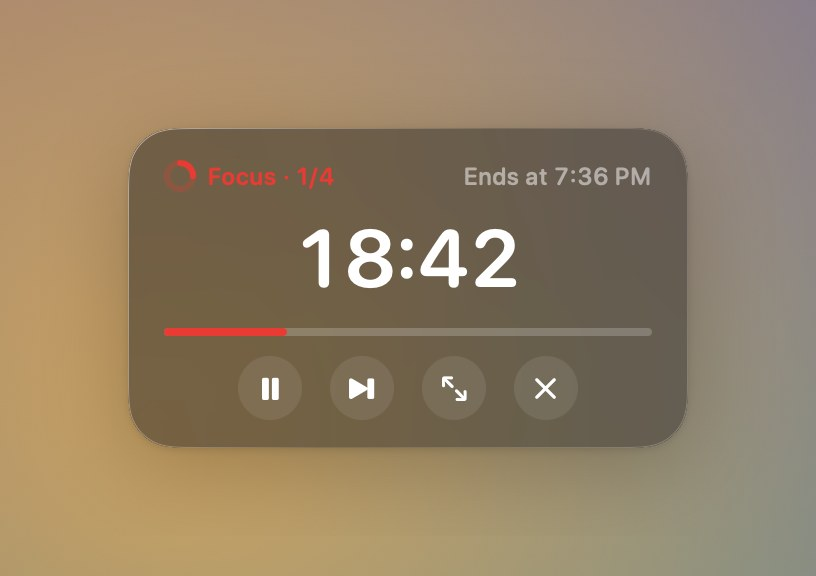
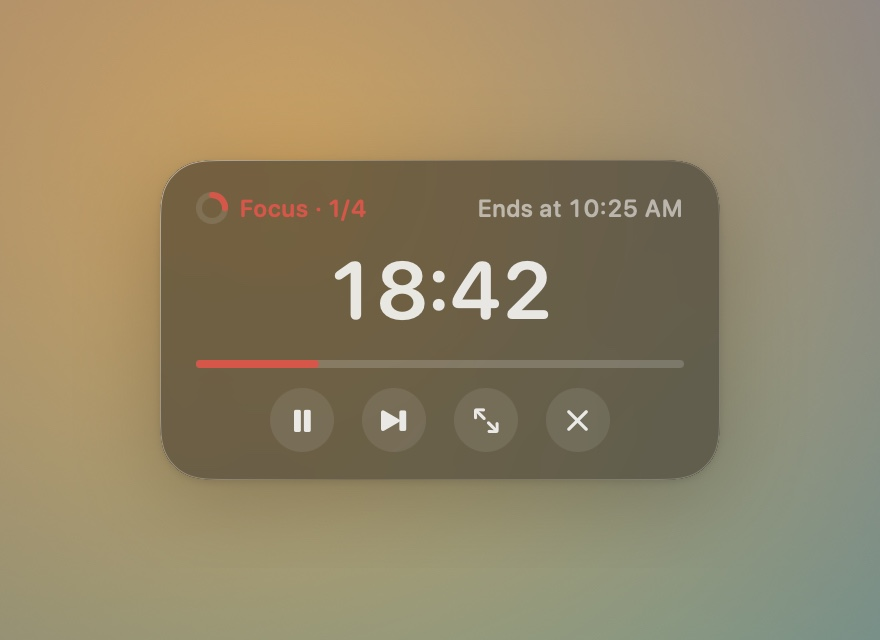
docs: refresh bilingual product screenshots and website imagery

diff --git a/website/styles.css b/website/styles.css
@@ -1,13 +1,13 @@
 :root{--paper:#f7f8f2;--ink:#253d33;--muted:#607068;--coral:#da443b;--coral-hover:#ba342d;--line:#dce1d5;--green:#e8eddf;--mint:#bbd9ca;--radius:28px;font-family:-apple-system,BlinkMacSystemFont,"PingFang TC","Microsoft JhengHei",sans-serif;color:var(--ink);background:var(--paper);font-synthesis:none;scroll-behavior:smooth;scroll-padding-top:32px}
 *{box-sizing:border-box}body{margin:0}a{color:inherit;text-decoration:none}button{font:inherit}img{display:block;max-width:100%;height:auto}svg{width:22px;height:22px;fill:none;stroke:currentColor;stroke-width:1.6;stroke-linecap:round;stroke-linejoin:round;flex:none}button,a,summary{-webkit-tap-highlight-color:transparent}a:focus-visible,button:focus-visible,summary:focus-visible,[tabindex="0"]:focus-visible{outline:3px solid var(--coral);outline-offset:5px}h1,h2,h3,p{margin:0}p{line-height:1.9}h1,h2,h3{text-wrap:balance}h2{font-size:clamp(30px,3.6vw,45px);line-height:1.45;letter-spacing:-1.3px;font-weight:600}.wrap{width:min(1120px,calc(100% - 96px));margin-inline:auto}.section-space{padding-block:112px}.sr-only{position:absolute;width:1px;height:1px;padding:0;margin:-1px;overflow:hidden;clip-path:inset(50%);white-space:nowrap;border:0}.skip-link{position:fixed;left:20px;top:-100px;background:var(--ink);color:white;padding:12px 20px;z-index:10}.skip-link:focus{top:15px}
 .site-header{height:108px;display:flex;align-items:center;justify-content:space-between}.brand{display:inline-flex;align-items:center;gap:10px}.brand img{border-radius:10px}.brand span{font-size:27px;font-weight:650;letter-spacing:-1px}.site-header nav{display:flex;gap:32px;align-items:center;font-size:14px}.site-header nav>a:hover{text-decoration:underline;text-underline-offset:5px}.nav-support{display:flex;align-items:center;gap:8px}.nav-support svg{width:18px;height:18px}
-.hero{display:grid;grid-template-columns:1fr 1.16fr;min-height:640px;align-items:center;padding-block:26px 62px;gap:44px}.availability{display:flex;align-items:center;gap:9px;font-size:13px;color:var(--muted);margin-bottom:27px}.availability>span{width:7px;height:7px;border-radius:50%;background:#718f65}.hero h1{font-size:clamp(42px,5.1vw,66px);font-weight:600;line-height:1.4;letter-spacing:-2.5px}.hero-description{font-size:19px;color:var(--muted);margin:24px 0 30px;line-height:1.85}.button{display:inline-flex;align-items:center;justify-content:center;gap:11px;min-height:54px;padding:15px 24px;border-radius:13px;font-size:15px;font-weight:550;transition:background .15s,transform .15s}.button:hover{transform:translateY(-2px)}.button-primary{background:var(--coral);color:white;box-shadow:0 6px 16px #b3463018}.button-primary:hover{background:var(--coral-hover)}.hero-note{font-size:12px;color:var(--muted);margin-top:14px;line-height:1.9}.hero-note span{font-size:11px;color:#6e786b}.hero-scene{height:545px;position:relative;display:flex;align-items:center;justify-content:center;isolation:isolate;overflow:hidden;border-radius:48% 48% 38% 38%;background:radial-gradient(ellipse at 65% 27%,#eff0c9 0%,#e5e9d2 40%,#bdd6c7 100%)}.hero-app{width:315px;border-radius:16px;box-shadow:0 30px 52px #293c3b30;transform:rotate(-5deg);position:relative;z-index:1}.scene-orbit{position:absolute;border:1px solid #ffffff78;border-radius:50%;z-index:0;width:600px;height:600px}.orbit-one{transform:translate(50px,140px)}.orbit-two{transform:translate(-100px,-110px);width:520px;height:520px}.scene-caption{position:absolute;bottom:26px;left:50%;transform:translateX(-50%);white-space:nowrap;z-index:2;font-size:13px;display:flex;align-items:center;gap:12px}.caption-line{height:1px;width:29px;background:currentColor}.quiet-facts{border-block:1px solid var(--line);display:flex;justify-content:space-around;padding:23px 0;color:var(--muted);font-size:13px}
+.hero{display:grid;grid-template-columns:1fr 1.16fr;min-height:640px;align-items:center;padding-block:26px 62px;gap:44px}.availability{display:flex;align-items:center;gap:9px;font-size:13px;color:var(--muted);margin-bottom:27px}.availability>span{width:7px;height:7px;border-radius:50%;background:#718f65}.hero h1{font-size:clamp(42px,5.1vw,66px);font-weight:600;line-height:1.4;letter-spacing:-2.5px}.hero-description{font-size:19px;color:var(--muted);margin:24px 0 30px;line-height:1.85}.button{display:inline-flex;align-items:center;justify-content:center;gap:11px;min-height:54px;padding:15px 24px;border-radius:13px;font-size:15px;font-weight:550;transition:background .15s,transform .15s}.button:hover{transform:translateY(-2px)}.button-primary{background:var(--coral);color:white;box-shadow:0 6px 16px #b3463018}.button-primary:hover{background:var(--coral-hover)}.hero-note{font-size:12px;color:var(--muted);margin-top:14px;line-height:1.9}.hero-note span{font-size:11px;color:#6e786b}.hero-scene{width:min(100%,440px);aspect-ratio:4/5;position:relative;display:flex;align-items:center;justify-content:center;justify-self:end;overflow:hidden;border-radius:28px}.hero-app{width:100%;position:relative}.quiet-facts{border-block:1px solid var(--line);display:flex;justify-content:space-around;padding:23px 0;color:var(--muted);font-size:13px}
 .section-heading{display:flex;align-items:flex-end;justify-content:space-between;gap:30px;margin-bottom:52px}.section-heading p{color:var(--muted);font-size:15px;margin-bottom:5px}.mode-layout{display:grid;grid-template-columns:340px 1fr;gap:40px;align-items:center}.mode-choices{display:grid;gap:12px}.mode-tab{display:flex;align-items:center;gap:17px;width:100%;padding:25px 20px;text-align:left;border:1px solid transparent;border-radius:17px;background:transparent;color:var(--ink);cursor:pointer}.mode-tab:hover{background:#ecefe5}.mode-tab[aria-selected="true"]{background:#fffefa;border-color:var(--line);box-shadow:0 6px 18px #293c3b04}.mode-symbol{display:grid;place-items:center;width:40px;height:40px;color:#6e8572}.mode-symbol svg{width:28px;height:28px}.mode-tab strong{font-size:17px;font-weight:600;display:block;margin-bottom:7px}.mode-tab small{font-size:12px;color:var(--muted);line-height:1.6;display:block}.tab-dot{margin-left:auto;min-width:7px;height:7px;border-radius:50%;background:var(--coral);opacity:0}.mode-tab[aria-selected="true"] .tab-dot{opacity:1}.mode-stage{height:470px;position:relative;border-radius:var(--radius);background:#e9ecdf;overflow:hidden}.mode-panel{height:100%;display:flex;flex-direction:column;align-items:center;justify-content:center;padding:32px 24px 52px;gap:20px}.mode-panel[hidden]{display:none}.mode-panel img{object-fit:contain;border-radius:12px;box-shadow:0 12px 30px #29413517;max-height:330px;width:auto;max-width:100%}.mode-panel p{font-size:12px;color:var(--muted);text-align:center}.stage-label{position:absolute;right:22px;bottom:15px;color:#6b7968;font-size:10px;letter-spacing:.3px}
-.overtime-section{background:var(--ink);color:#f4f6e8}.overtime-layout{display:grid;grid-template-columns:1fr 1fr;align-items:center;gap:95px;padding-block:85px;overflow:hidden}.overtime-art{display:flex;justify-content:center;position:relative;padding-block:15px}.overtime-art:before{content:"";position:absolute;inset:0;background:radial-gradient(ellipse,#92c1a82a,transparent 67%)}.overtime-art img{width:285px;transform:rotate(5deg);border-radius:15px;box-shadow:0 24px 60px #0c201c40;position:relative}.small-note{font-size:13px;color:#c5d3bd;margin-bottom:18px}.overtime-copy h2{font-size:clamp(30px,3.3vw,43px);margin-bottom:24px}.overtime-copy>p:not(.small-note){font-size:14px;color:#c6d2c6;margin-top:14px;max-width:360px}.overtime-example{display:flex;align-items:center;gap:22px;font-variant-numeric:tabular-nums;margin-top:29px;font-size:30px;letter-spacing:-.8px}.overtime-example>span:first-child{color:#a4b3a5}.overtime-example>span:last-child{color:#9ce1d4}.overtime-example svg{width:40px;height:16px;color:#b5c3b1}
+.overtime-section{background:var(--ink);color:#f4f6e8}.overtime-layout{display:grid;grid-template-columns:1fr 1fr;align-items:center;gap:95px;padding-block:85px;overflow:hidden}.overtime-art{display:flex;justify-content:center;position:relative;padding-block:15px}.overtime-art:before{content:"";position:absolute;inset:0;background:radial-gradient(ellipse,#92c1a82a,transparent 67%)}.overtime-art img{width:340px;border-radius:15px;box-shadow:0 24px 60px #0c201c40;position:relative}.small-note{font-size:13px;color:#c5d3bd;margin-bottom:18px}.overtime-copy h2{font-size:clamp(30px,3.3vw,43px);margin-bottom:24px}.overtime-copy>p:not(.small-note){font-size:14px;color:#c6d2c6;margin-top:14px;max-width:360px}.overtime-example{display:flex;align-items:center;gap:22px;font-variant-numeric:tabular-nums;margin-top:29px;font-size:30px;letter-spacing:-.8px}.overtime-example>span:first-child{color:#a4b3a5}.overtime-example>span:last-child{color:#9ce1d4}.overtime-example svg{width:40px;height:16px;color:#b5c3b1}
 .details-section h2{margin-bottom:52px}.detail-grid{display:grid;grid-template-columns:repeat(3,1fr);gap:52px}.detail-icon{width:31px;height:31px;margin-bottom:22px;color:#647e5f}.detail-grid h3{font-size:18px;font-weight:600;margin-bottom:13px}.detail-grid p{color:var(--muted);font-size:14px}
 .download-section{padding:58px 64px;background:#e9eddf;border-radius:var(--radius);display:grid;grid-template-columns:1fr 1fr;gap:72px;align-items:center;scroll-margin-top:28px}.download-icon{width:68px;height:68px;border-radius:17px;box-shadow:0 7px 15px #35442e0d;margin-bottom:22px}.download-section h2{font-size:36px;line-height:1.4;margin-bottom:20px}.download-section>div>p{color:var(--muted);font-size:14px}.download-info{border-left:1px solid #ced6c3;padding-left:39px}.download-status{font-size:17px;font-weight:600;display:flex;align-items:center;gap:9px;margin-bottom:15px}.download-status>span{background:#798d68;width:8px;height:8px;border-radius:50%}.download-info>p{font-size:13px!important}.download-info dl{margin:23px 0;font-size:12px}.download-info dl>div{display:flex;gap:18px;margin-top:12px;line-height:1.7}.download-info dt{color:var(--muted);flex:none}.download-info dd{margin:0}.download-info .install-note{font-size:11px!important;line-height:1.8}
 .faq-section{display:grid;grid-template-columns:.9fr 1.1fr;gap:70px}.faq-section h2{font-size:33px}.faq-list details{border-bottom:1px solid var(--line)}.faq-list details:first-child{border-top:1px solid var(--line)}summary{list-style:none;cursor:pointer;display:flex;justify-content:space-between;align-items:center;gap:18px;padding:23px 0;font-size:15px;line-height:1.7}summary::-webkit-details-marker{display:none}summary:after{content:"+";font-size:24px;font-weight:300;color:var(--muted)}details[open] summary:after{content:"−"}.faq-list details p{font-size:14px;color:var(--muted);padding-bottom:24px;max-width:450px}.faq-list details a{text-decoration:underline;text-underline-offset:4px}.support-section{display:flex;align-items:center;justify-content:space-between;gap:32px;border-top:1px solid var(--line);padding-block:58px 68px}.support-section h2{font-size:30px}.support-section p{font-size:14px;color:var(--muted);margin-top:17px}.button-support{border:1px solid #c4cfba;background:transparent;white-space:nowrap}.button-support:hover{background:var(--green)}.site-footer{display:flex;align-items:center;gap:32px;border-top:1px solid var(--line);min-height:100px}.site-footer .brand span{font-size:22px}.site-footer p,.site-footer>span{color:var(--muted);font-size:11px}.site-footer>span{margin-left:auto}
-@media(min-width:1440px){.hero{min-height:720px;gap:70px}.hero-scene{height:580px}.hero-app{width:340px}}
-@media(max-width:960px){.wrap{width:calc(100% - 56px)}.hero{gap:22px;min-height:580px}.hero-scene{height:470px}.hero-app{width:270px}.hero h1{font-size:47px}.mode-layout{grid-template-columns:280px 1fr;gap:24px}.mode-tab{padding:22px 13px;gap:9px}.mode-stage{height:430px}.mode-panel img{max-height:300px}.overtime-layout{gap:45px}.detail-grid{gap:26px}.download-section{padding:42px;gap:32px}.download-info{padding-left:28px}.faq-section{gap:36px}.section-space{padding-block:86px}}
-@media(max-width:680px){.wrap{width:calc(100% - 40px)}.site-header{height:86px}.site-header nav{gap:18px;font-size:12px}.site-header nav>a:first-child{display:none}.brand span{font-size:24px}.brand img{width:36px;height:36px}.nav-support svg{display:none}.hero{grid-template-columns:1fr;padding-top:26px;padding-bottom:34px;gap:31px}.hero-copy{text-align:center}.availability{justify-content:center;font-size:12px;margin-bottom:20px}.hero h1{font-size:45px;letter-spacing:-2px;line-height:1.45}.hero-description{font-size:16px;margin:18px 0 23px}.hero-note{font-size:11px;margin-top:12px}.hero-scene{height:415px;width:min(400px,100%);margin-inline:auto;border-radius:46% 46% 34% 34%}.hero-app{width:245px}.scene-caption{bottom:20px;font-size:11px}.quiet-facts{display:grid;grid-template-columns:1fr 1fr;gap:17px 10px;text-align:center;font-size:12px;padding-block:22px}.section-space{padding-block:66px}.section-heading{display:block;margin-bottom:30px}.section-heading h2{font-size:32px}.section-heading p{margin-top:19px;font-size:13px}.mode-layout{grid-template-columns:1fr;gap:20px}.mode-choices{display:flex;gap:7px}.mode-tab{flex:1;justify-content:center;padding:16px 5px;gap:0}.mode-tab strong{font-size:14px;margin:0}.mode-tab small,.mode-symbol,.tab-dot{display:none}.mode-stage{height:410px}.mode-panel{padding:25px 16px 44px;gap:17px}.mode-panel img{max-height:300px}.mode-panel p{font-size:11px}.overtime-layout{grid-template-columns:1fr;padding-block:58px;gap:39px}.overtime-copy{grid-row:1}.overtime-copy h2{font-size:33px}.overtime-copy>p:not(.small-note){max-width:none}.overtime-art img{width:240px}.overtime-example{font-size:28px}.detail-grid{grid-template-columns:1fr;gap:32px}.details-section h2{font-size:32px;margin-bottom:35px}.detail-grid article{display:grid;grid-template-columns:37px 1fr;gap:8px 16px}.detail-icon{grid-row:1/3;margin:0;width:28px;height:28px}.detail-grid h3{font-size:17px;margin:0;align-self:center}.detail-grid p{font-size:13px;grid-column:2}.download-section{grid-template-columns:1fr;padding:30px 25px;gap:28px;border-radius:22px}.download-section h2{font-size:32px}.download-info{border-left:0;border-top:1px solid #ced6c3;padding:27px 0 0}.download-info>p{font-size:12px!important}.download-info dl>div{gap:16px}.faq-section{grid-template-columns:1fr;gap:30px}.faq-section h2{font-size:30px}summary{font-size:14px;padding-block:21px}.faq-list details p{font-size:13px}.support-section{display:block;padding-block:38px 45px}.support-section h2{font-size:29px}.support-section p{font-size:13px}.button-support{margin-top:25px;font-size:14px}.site-footer{gap:16px;flex-wrap:wrap;padding-block:24px;min-height:0}.site-footer .brand img{width:29px;height:29px}.site-footer>span{margin-left:0;width:100%;padding-left:39px}.site-footer p{font-size:10px}}
+@media(min-width:1440px){.hero{min-height:720px;gap:70px}}
+@media(max-width:960px){.wrap{width:calc(100% - 56px)}.hero{gap:22px;min-height:580px}.hero-scene{max-width:380px}.hero h1{font-size:47px}.mode-layout{grid-template-columns:280px 1fr;gap:24px}.mode-tab{padding:22px 13px;gap:9px}.mode-stage{height:430px}.mode-panel img{max-height:300px}.overtime-layout{gap:45px}.detail-grid{gap:26px}.download-section{padding:42px;gap:32px}.download-info{padding-left:28px}.faq-section{gap:36px}.section-space{padding-block:86px}}
+@media(max-width:680px){.wrap{width:calc(100% - 40px)}.site-header{height:86px}.site-header nav{gap:18px;font-size:12px}.site-header nav>a:first-child{display:none}.brand span{font-size:24px}.brand img{width:36px;height:36px}.nav-support svg{display:none}.hero{grid-template-columns:1fr;padding-top:26px;padding-bottom:34px;gap:31px}.hero-copy{text-align:center}.availability{justify-content:center;font-size:12px;margin-bottom:20px}.hero h1{font-size:45px;letter-spacing:-2px;line-height:1.45}.hero-description{font-size:16px;margin:18px 0 23px}.hero-note{font-size:11px;margin-top:12px}.hero-scene{width:min(360px,100%);margin-inline:auto;justify-self:center}.quiet-facts{display:grid;grid-template-columns:1fr 1fr;gap:17px 10px;text-align:center;font-size:12px;padding-block:22px}.section-space{padding-block:66px}.section-heading{display:block;margin-bottom:30px}.section-heading h2{font-size:32px}.section-heading p{margin-top:19px;font-size:13px}.mode-layout{grid-template-columns:1fr;gap:20px}.mode-choices{display:flex;gap:7px}.mode-tab{flex:1;justify-content:center;padding:16px 5px;gap:0}.mode-tab strong{font-size:14px;margin:0}.mode-tab small,.mode-symbol,.tab-dot{display:none}.mode-stage{height:410px}.mode-panel{padding:25px 16px 44px;gap:17px}.mode-panel img{max-height:300px}.mode-panel p{font-size:11px}.overtime-layout{grid-template-columns:1fr;padding-block:58px;gap:39px}.overtime-copy{grid-row:1}.overtime-copy h2{font-size:33px}.overtime-copy>p:not(.small-note){max-width:none}.overtime-art img{width:min(100%,300px)}.overtime-example{font-size:28px}.detail-grid{grid-template-columns:1fr;gap:32px}.details-section h2{font-size:32px;margin-bottom:35px}.detail-grid article{display:grid;grid-template-columns:37px 1fr;gap:8px 16px}.detail-icon{grid-row:1/3;margin:0;width:28px;height:28px}.detail-grid h3{font-size:17px;margin:0;align-self:center}.detail-grid p{font-size:13px;grid-column:2}.download-section{grid-template-columns:1fr;padding:30px 25px;gap:28px;border-radius:22px}.download-section h2{font-size:32px}.download-info{border-left:0;border-top:1px solid #ced6c3;padding:27px 0 0}.download-info>p{font-size:12px!important}.download-info dl>div{gap:16px}.faq-section{grid-template-columns:1fr;gap:30px}.faq-section h2{font-size:30px}summary{font-size:14px;padding-block:21px}.faq-list details p{font-size:13px}.support-section{display:block;padding-block:38px 45px}.support-section h2{font-size:29px}.support-section p{font-size:13px}.button-support{margin-top:25px;font-size:14px}.site-footer{gap:16px;flex-wrap:wrap;padding-block:24px;min-height:0}.site-footer .brand img{width:29px;height:29px}.site-footer>span{margin-left:0;width:100%;padding-left:39px}.site-footer p{font-size:10px}}
 @media(prefers-reduced-motion:reduce){:root{scroll-behavior:auto}.button{transition:none}.button:hover{transform:none}}

diff --git a/website/index.html b/website/index.html
@@ -30,11 +30,8 @@
         <a class="button button-primary" href="#download"><svg viewBox="0 0 24 24" aria-hidden="true"><path d="M12 3v12m-5-5 5 5 5-5M5 16v4h14v-4"/></svg>免費下載 macOS 版</a>
         <p class="hero-note">macOS 14 以上・不需要帳號<br><span>免費使用，自願支持開發</span></p>
       </div>
-      <div class="hero-scene" aria-label="Ripen 主視窗實際截圖">
-        <div class="scene-orbit orbit-one" aria-hidden="true"></div>
-        <div class="scene-orbit orbit-two" aria-hidden="true"></div>
-        <img class="hero-app" src="assets/main.jpg" width="1048" height="1300" alt="Ripen 磨砂玻璃主視窗：圓環顯示剩餘專注時間，可暫停與切換階段" fetchpriority="high">
-        <div class="scene-caption"><span class="caption-line" aria-hidden="true"></span>剛剛好的存在感。</div>
+      <div class="hero-scene" aria-label="Ripen 暖瓷白主視窗實際截圖">
+        <img class="hero-app" src="assets/main-white.jpg" width="960" height="1200" alt="Ripen 暖瓷白主視窗：圓環顯示剩餘專注時間，可暫停與切換階段" fetchpriority="high">
       </div>
     </section>
 
@@ -54,9 +51,9 @@
           <button class="mode-tab" id="tab-notch" type="button" role="tab" aria-selected="false" aria-controls="panel-notch" tabindex="-1"><span class="mode-symbol" aria-hidden="true"><svg viewBox="0 0 28 28"><path d="M3 5h22M6 5v8a4 4 0 0 0 4 4h8a4 4 0 0 0 4-4V5"/><path d="M11 10h6"/></svg></span><span><strong>瀏海島</strong><small>收進螢幕頂端，抬眼就看見。</small></span><span class="tab-dot" aria-hidden="true"></span></button>
         </div>
         <div class="mode-stage">
-          <div class="mode-panel" id="panel-main" role="tabpanel" aria-labelledby="tab-main" tabindex="0"><img src="assets/main.jpg" alt="Main window：主視窗圓環計時與暫停按鈕" width="1048" height="1300" loading="lazy"><p>完整控制，安靜地陪你開始。</p></div>
-          <div class="mode-panel" id="panel-floating" role="tabpanel" aria-labelledby="tab-floating" tabindex="0" hidden><img src="assets/floating.jpg" alt="Floating window：置頂懸浮窗顯示時間、進度與操作按鈕" width="816" height="576" loading="lazy"><p>永遠置頂，三種尺寸，記得你放的位置。</p></div>
-          <div class="mode-panel" id="panel-notch" role="tabpanel" aria-labelledby="tab-notch" tabindex="0" hidden><img src="assets/notch.jpg" alt="Notch island：滑鼠移入後展開的瀏海島與計時控制" width="1000" height="400" loading="lazy"><p>移入展開控制，往下拉回主視窗。沒有瀏海也能用。</p></div>
+          <div class="mode-panel" id="panel-main" role="tabpanel" aria-labelledby="tab-main" tabindex="0"><img src="assets/main.jpg" alt="Main window：主視窗圓環計時與暫停按鈕" width="960" height="1200" loading="lazy"><p>完整控制，安靜地陪你開始。</p></div>
+          <div class="mode-panel" id="panel-floating" role="tabpanel" aria-labelledby="tab-floating" tabindex="0" hidden><img src="assets/floating.jpg" alt="Floating window：置頂懸浮窗顯示時間、進度與操作按鈕" width="880" height="640" loading="lazy"><p>永遠置頂，三種尺寸，記得你放的位置。</p></div>
+          <div class="mode-panel" id="panel-notch" role="tabpanel" aria-labelledby="tab-notch" tabindex="0" hidden><img src="assets/notch.jpg" alt="Notch island：滑鼠移入後展開的瀏海島與計時控制" width="1600" height="440" loading="lazy"><p>移入展開控制，往下拉回主視窗。沒有瀏海也能用。</p></div>
           <span class="stage-label">App 實際截圖</span>
         </div>
       </div>
@@ -64,7 +61,7 @@
 
     <section class="overtime-section" aria-labelledby="overtime-title">
       <div class="overtime-layout wrap">
-        <div class="overtime-art"><img src="assets/overtime.jpg" width="1048" height="1300" alt="Overtime：專注到點後，以青綠色 +03:17 繼續計時" loading="lazy"></div>
+        <div class="overtime-art"><img src="assets/overtime.jpg" width="960" height="1200" alt="Overtime：專注到點後，以青綠色 +03:17 繼續計時" loading="lazy"></div>
         <div class="overtime-copy"><p class="small-note">給還沒寫完的那一句。</p><h2 id="overtime-title">到點了，<br>也不必急著結束。</h2><p>提示音響起後，Ripen 會換個顏色，繼續往上計時。把這個想法寫完，準備好了，再按「完成」。</p><p>專注紀錄會算進超時的長度；鎖定或睡眠期間的超時不會持續累加。</p><div class="overtime-example" aria-label="倒數到零後進入超時"><span>00:00</span><svg viewBox="0 0 40 16" aria-hidden="true"><path d="M1 8h36m-7-6 7 6-7 6"/></svg><span>+03:17</span></div></div>
       </div>
     </section>

diff --git a/scripts/generate-brand-assets.swift b/scripts/generate-brand-assets.swift
@@ -84,11 +84,11 @@ for language in ["en", "zh-Hant"] {
         text("Focus, within reach.", x: 60, y: 44, size: 64, weight: .semibold, color: ink)
         text("Main window", x: 60, y: 145, size: 26, weight: .medium, color: muted)
         text("Notch island", x: 960, y: 205, size: 26, weight: .medium, color: muted)
-        text("Floating window", x: 960, y: 440, size: 26, weight: .medium, color: muted)
+        text("Floating window", x: 960, y: 500, size: 26, weight: .medium, color: muted)
         for (source, rect) in [
             (main, NSRect(x: 60 + (820 - mainWidth) / 2, y: 190, width: mainWidth, height: mainHeight)),
             (notch, NSRect(x: 960, y: 250, width: 780, height: 780 * notch.size.height / notch.size.width)),
-            (floating, NSRect(x: 960, y: 485, width: 780, height: 780 * floating.size.height / floating.size.width))
+            (floating, NSRect(x: 960, y: 545, width: 780, height: 780 * floating.size.height / floating.size.width))
         ] {
             NSGraphicsContext.saveGraphicsState()
             NSBezierPath(roundedRect: rect, xRadius: 22, yRadius: 22).addClip()

diff --git a/docs/development.md b/docs/development.md
@@ -59,6 +59,12 @@ swift scripts/generate-brand-assets.swift
 
 腳本產生 `AppIcon.appiconset` 的 16–1024 像素圖標與兩種語言的 `showcase.png`。展示圖使用各語言目錄中的 `main.jpg`、`floating-medium.jpg` 與 `notch.jpg` 原始截圖；圖上標題與標籤統一使用英文。圖標首次加入或資產位置改動後，重新執行 `xcodegen generate` 再建置。
 
+產品截圖採用使用者確認的彩色漸層背景，中英文各九張：玻璃及暖瓷白主視窗、三尺寸懸浮窗、瀏海島收合／展開、超時及統計。`docs/images/en/` 與 `zh-Hant/` 保存供 README 使用的 JPEG，`website/assets/` 使用同一批繁中素材；網站首屏採暖瓷白，形態展示保留玻璃。原始 PNG、拍攝副本與工具保留於 `build/screenshots-20261029/`。
+
+拍攝採不同 bundle id、隔離設定與記憶體專注紀錄。只在 `staged/` 副本設定固定時鐘、隱藏首次引導、停用提示音與全域快速鍵；倒數固定為 18:42，超時固定為 +03:17。`backdrop.swift` 開啟不接收滑鼠的彩色背景，不改系統桌布；`capture-all.py` 以 `screencapture` 擷取真實視窗及陰影，完成後結束拍攝 App、背景與保持喚醒程序。統計的七日次數為展示資料 `[5,7,4,8,6,3,4]`，每次 25 分鐘，僅存在拍攝副本的記憶體；README 在圖片旁明示其用途。
+
+主視窗與懸浮窗的原始圖為 1600×1200 PNG；瀏海島保留原生視窗擷取，由 `layout-notch.swift` 排上同色背景，輸出 1600×440 PNG，避免其他選單列圖示混入。`prepare-images.py` 以固定留白裁切並匯出 JPEG，不旋轉、拉伸或重繪介面。下一輪須從當時正式來源重建副本，不可把固定狀態的副本作為發行版；拍攝時 Mac 必須解鎖。
+
 ## 資料相容性與升級
 
 完成的專注存於 `~/Library/Application Support/Ripen/focus-log.sqlite`；設定維持原有 `UserDefaults` 命名空間。首次啟動自動處理舊 `focus-log.json`，不要求手動匯入；原始 JSON 留存，不再作為現行資料來源。設計契約見 [ADR-0007](adr/0007-compatible-data-upgrades.md)。

diff --git a/README.md b/README.md
@@ -57,8 +57,10 @@ When the countdown reaches zero, Ripen plays a sound and keeps counting as `+mm:
 The Statistics page shows today's focus count and minutes, plus a chart of the last seven days. Everything is stored locally on your Mac.
 
 <p align="center">
-  <img src="docs/images/en/stats.jpg" width="380" alt="Statistics page with today's totals and a seven-day chart">
+  <img src="docs/images/en/stats.jpg" width="380" alt="Statistics page with today's totals and a seven-day chart; demonstration data">
 </p>
+
+<p align="center"><sub>Illustrative focus history for demonstration, not real user data.</sub></p>
 
 ## Features
 

diff --git a/README.zh-Hant.md b/README.zh-Hant.md
@@ -57,8 +57,10 @@
 統計頁顯示今天的專注次數與分鐘數，以及最近 7 天的長條圖。所有資料只存在你的 Mac 上。
 
 <p align="center">
-  <img src="docs/images/zh-Hant/stats.jpg" width="380" alt="統計頁：今日總計與最近 7 天長條圖">
+  <img src="docs/images/zh-Hant/stats.jpg" width="380" alt="統計頁：今日總計與最近 7 天長條圖；數據為展示資料">
 </p>
+
+<p align="center"><sub>統計畫面使用展示資料，非真實使用者紀錄。</sub></p>
 
 ## 功能
 
